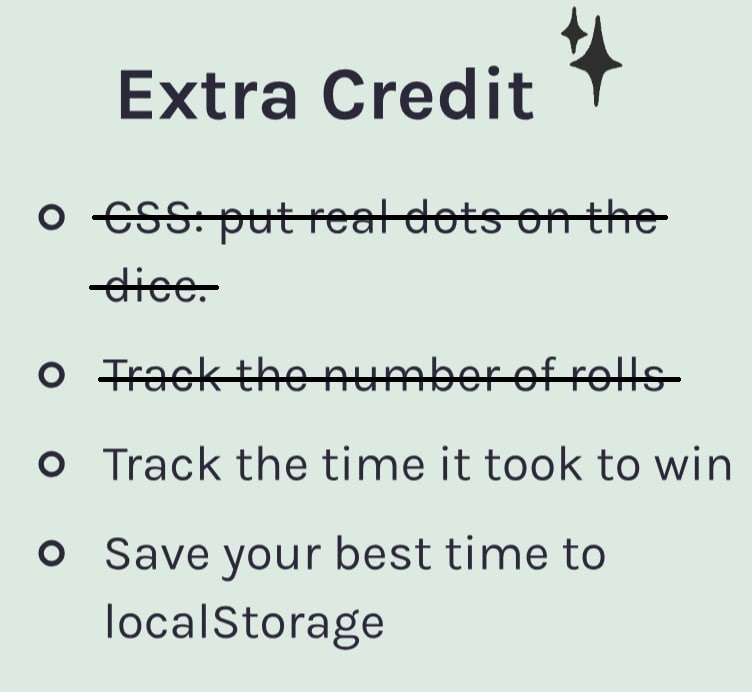
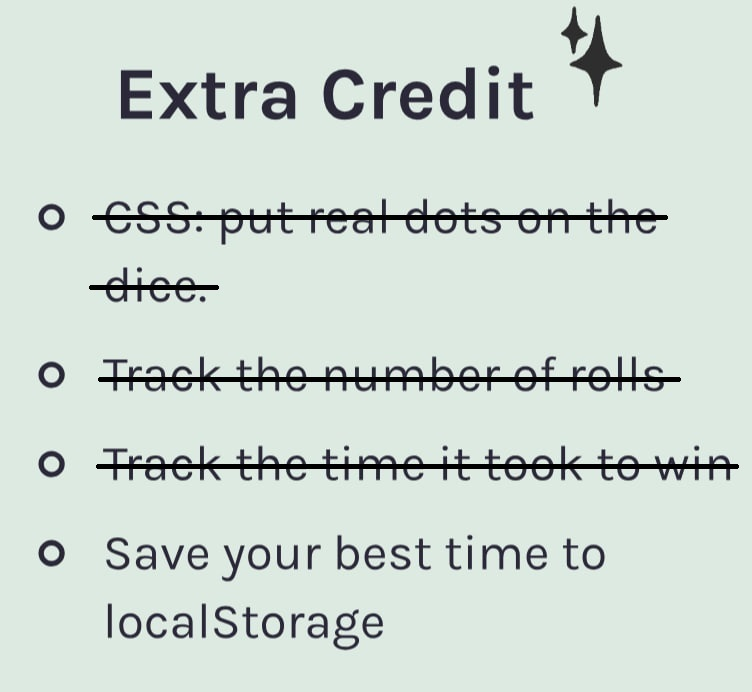
Fix clock not being correct + cross out task

Changed region(s): [[0.1223, 0.6676, 0.9787, 0.698]]

diff --git a/src/App.js b/src/App.js
@@ -26,7 +26,7 @@ export default function App() {
         let intervalId
 
         if(!tenzies){
-            intervalId = setInterval(() => setPlayTime(playTime + 1), 1000)
+            intervalId = setInterval(() => setPlayTime(playTime + 1), 10)
         }
 
         return () => clearInterval(intervalId)
